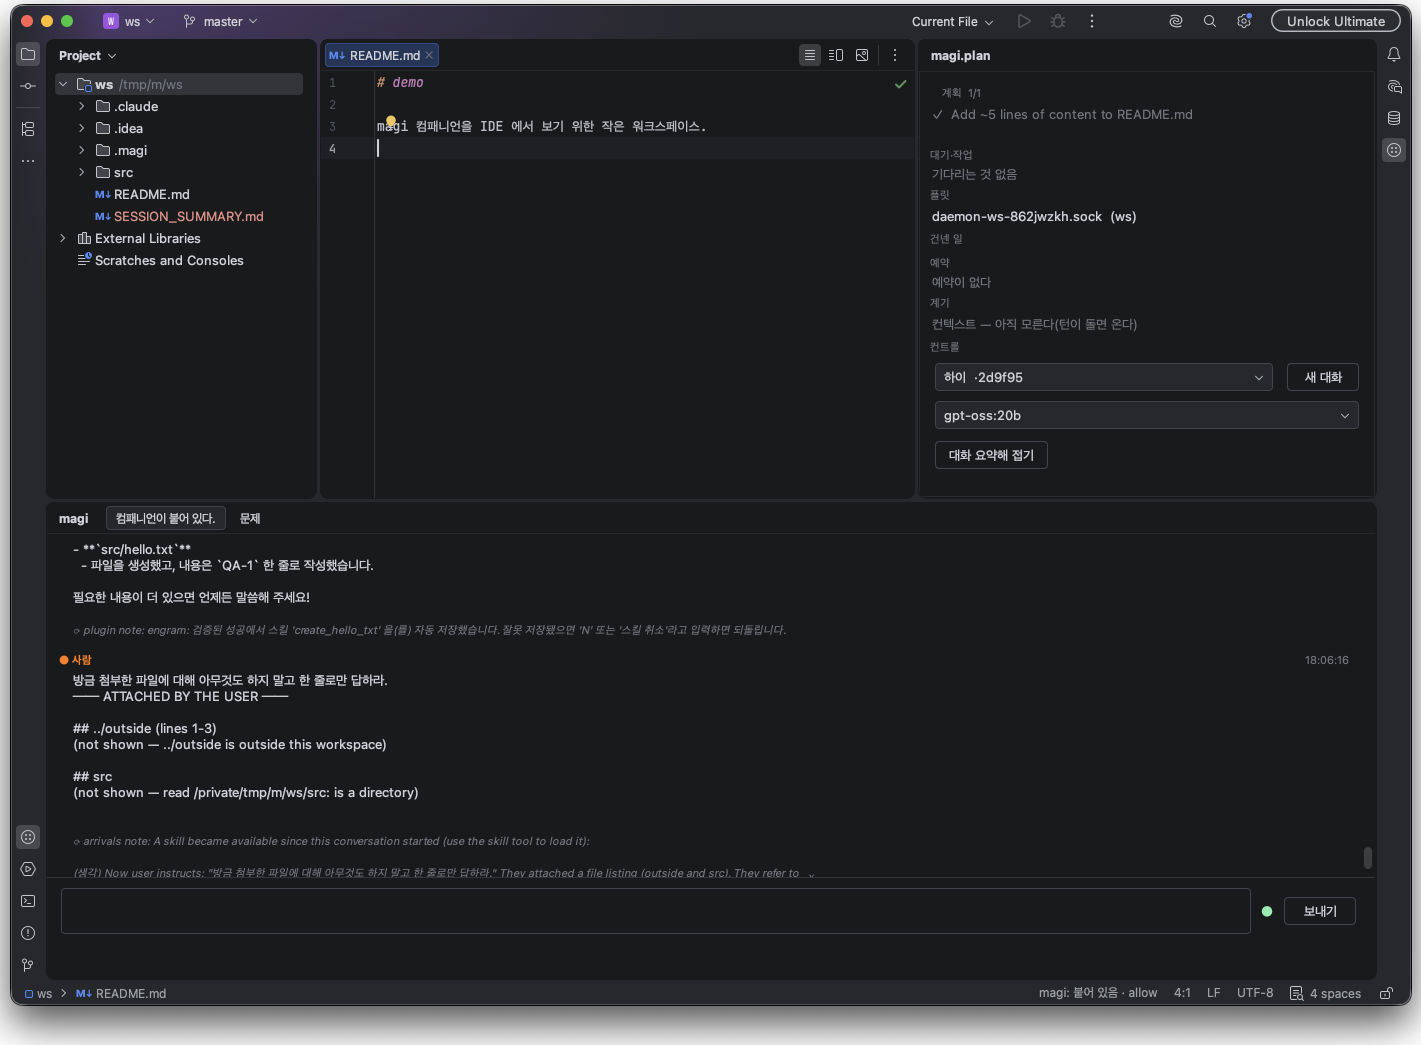
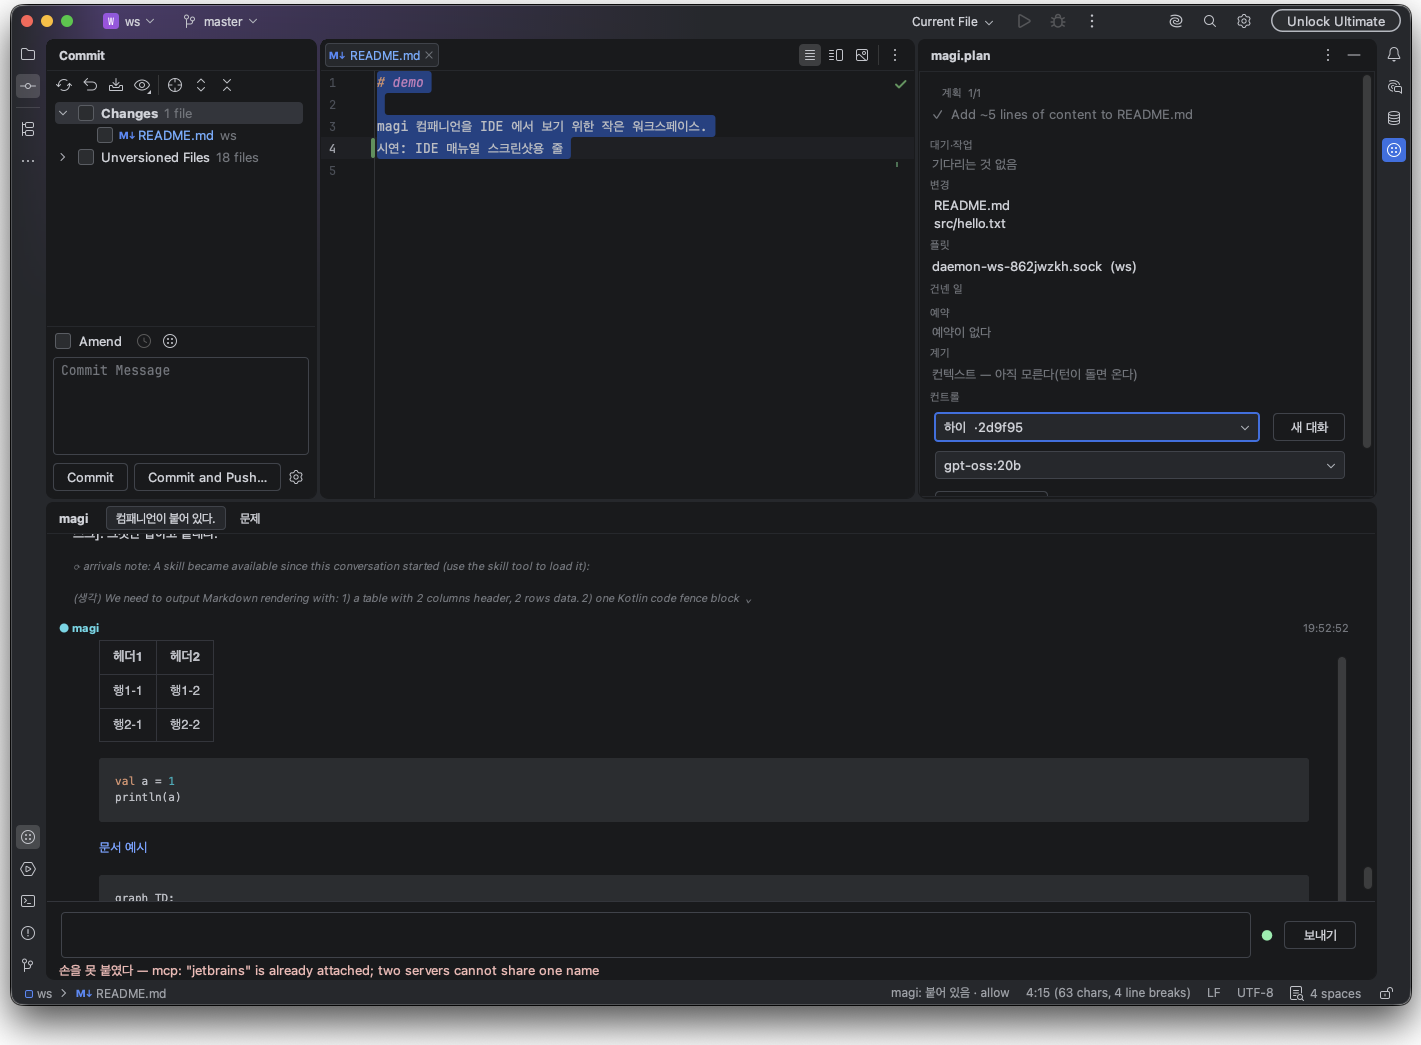
jetbrains/docs: the manual's screens catch up with the panel
Three shots retaken from the committed build: the transcript now shows
an answer drawing its own markdown — a real table, a highlighted code
card, a live link — and the right dock shows the 변경 section listing
the files this conversation touched. Captions follow the screens.

diff --git a/clients/jetbrains/docs/MANUAL.ko.md b/clients/jetbrains/docs/MANUAL.ko.md
@@ -72,7 +72,7 @@ old/new 원문 두 면이 IDE 나란히-보기로 열린다(제목 「이전/이
 "낡았는데 자신만만"을 막는 배너("데몬에 못 닿는다 — 아래는 마지막으로 읽힌 값이다")는
 우측 판(§3)에 선다.
 
-![전사 — 승인 물음, 생각 접힘, read ✓ 도구 행, write 진행](img/02-transcript.png)
+![전사 — 답의 마크다운이 판 안에서 그려진다(표·코드·링크)](img/02-transcript.png)
 
 ### 2.2 「문제」 탭
 
@@ -154,7 +154,7 @@ old/new 원문 두 면이 IDE 나란히-보기로 열린다(제목 「이전/이
 
 여기도 낡음 배너가 있다: "데몬에 못 닿는다 — 아래는 마지막으로 읽힌 값이다".
 
-![우측 판 — 계획부터 컨트롤까지](img/07-plan.png)
+![우측 판 — 계획·변경(이 대화가 만진 파일)·플릿·컨트롤](img/07-plan.png)
 
 ## 4. 상태 표시줄 위젯
 
